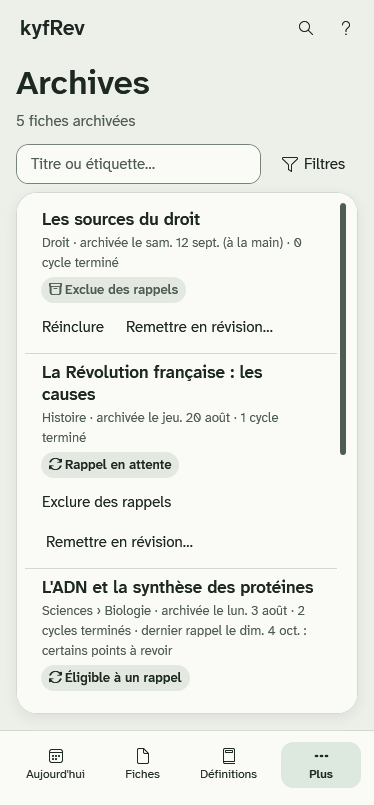
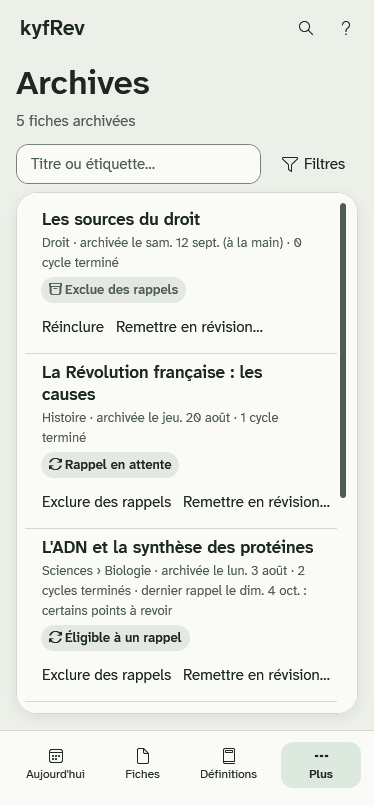
Archives : les actions d'une ligne tiennent ensemble sur petit écran
À 390 px, « Exclure des rappels » et « Remettre en révision… » passaient l'une sous l'autre, ce qui
allongeait chaque fiche.

diff --git a/src/KyfRev.Presentation.Wpf/Pages/ArchivesPage.xaml b/src/KyfRev.Presentation.Wpf/Pages/ArchivesPage.xaml
@@ -65,11 +65,12 @@
           <Setter TargetName="Side" Property="Grid.Column" Value="0" />
           <Setter TargetName="Side" Property="Grid.Row" Value="1" />
           <Setter TargetName="Side" Property="HorizontalAlignment" Value="Left" />
-          <Setter TargetName="Side" Property="Margin" Value="8,4,0,0" />
+          <Setter TargetName="Side" Property="Margin" Value="12,4,0,0" />
           <Setter TargetName="Status" Property="HorizontalAlignment" Value="Left" />
-          <Setter TargetName="Status" Property="Margin" Value="8,0,0,0" />
-          <Setter TargetName="ToggleRow" Property="Padding" Value="8,0" />
-          <Setter TargetName="RestartRow" Property="Padding" Value="8,0" />
+          <Setter TargetName="Status" Property="Margin" Value="4,0,0,0" />
+          <Setter TargetName="ToggleRow" Property="Padding" Value="4,0" />
+          <Setter TargetName="RestartRow" Property="Padding" Value="4,0" />
+          <Setter TargetName="RestartRow" Property="Margin" Value="2,0,0,0" />
         </DataTrigger>
       </DataTemplate.Triggers>
     </DataTemplate>
